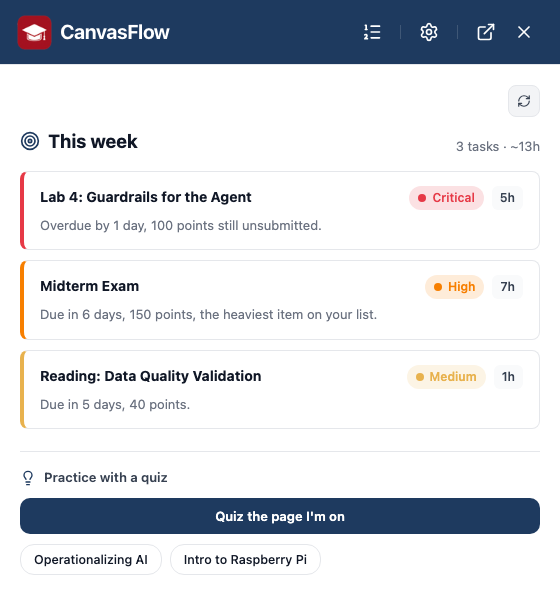
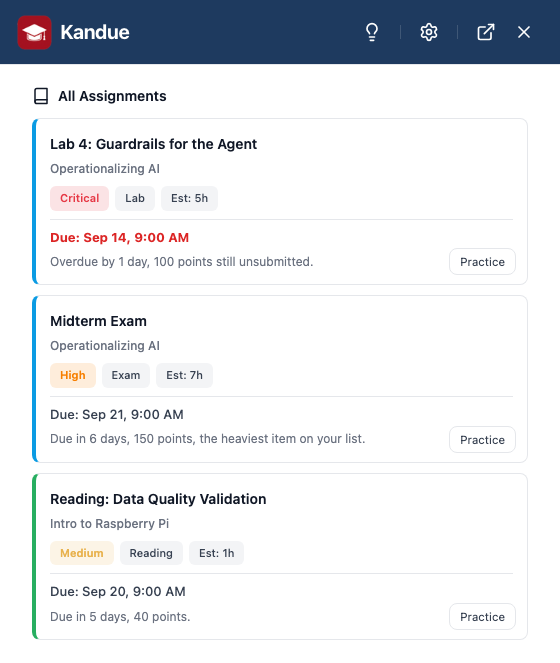
The landing page shows the panel 1.9.0 actually ships

diff --git a/docs/index.html b/docs/index.html
@@ -203,7 +203,7 @@
                 </div>
             </div>
             <div class="hero-media">
-                <img class="hero-shot" src="ss1.png" width="1120" height="1233" alt="The Kandue panel showing overdue, due-today and upcoming counts with a list of assignments" loading="eager" decoding="async">
+                <img class="hero-shot" src="ss1.png" width="1120" height="1354" alt="The Kandue panel showing overdue, due-today and upcoming counts with a list of assignments" loading="eager" decoding="async">
             </div>
         </div>
     </header>
@@ -251,7 +251,7 @@
             <p class="sub">A panel that floats over the page you're on. Read your deadlines, see what to start, and quiz yourself without leaving Canvas.</p>
 
             <div class="shot-feature">
-                <img src="ss-priorities.png" width="560" height="598" alt="The Kandue priorities view: 'This week, 3 tasks, about 13 hours', with assignments ranked Critical, High and Medium, each with an hour estimate and a one-line reason" loading="lazy" decoding="async">
+                <img src="ss-priorities.png" width="560" height="663" alt="The Kandue priorities view: 'This week, 3 tasks, about 13 hours', with assignments ranked Critical, High and Medium, each with an hour estimate and a one-line reason" loading="lazy" decoding="async">
                 <div>
                     <h3>Know what to start</h3>
                     <p>Your week ranked by what actually matters first, each task with an hour estimate and one line on why it's there. Tell it how long something really took and the estimates adjust to you.</p>
